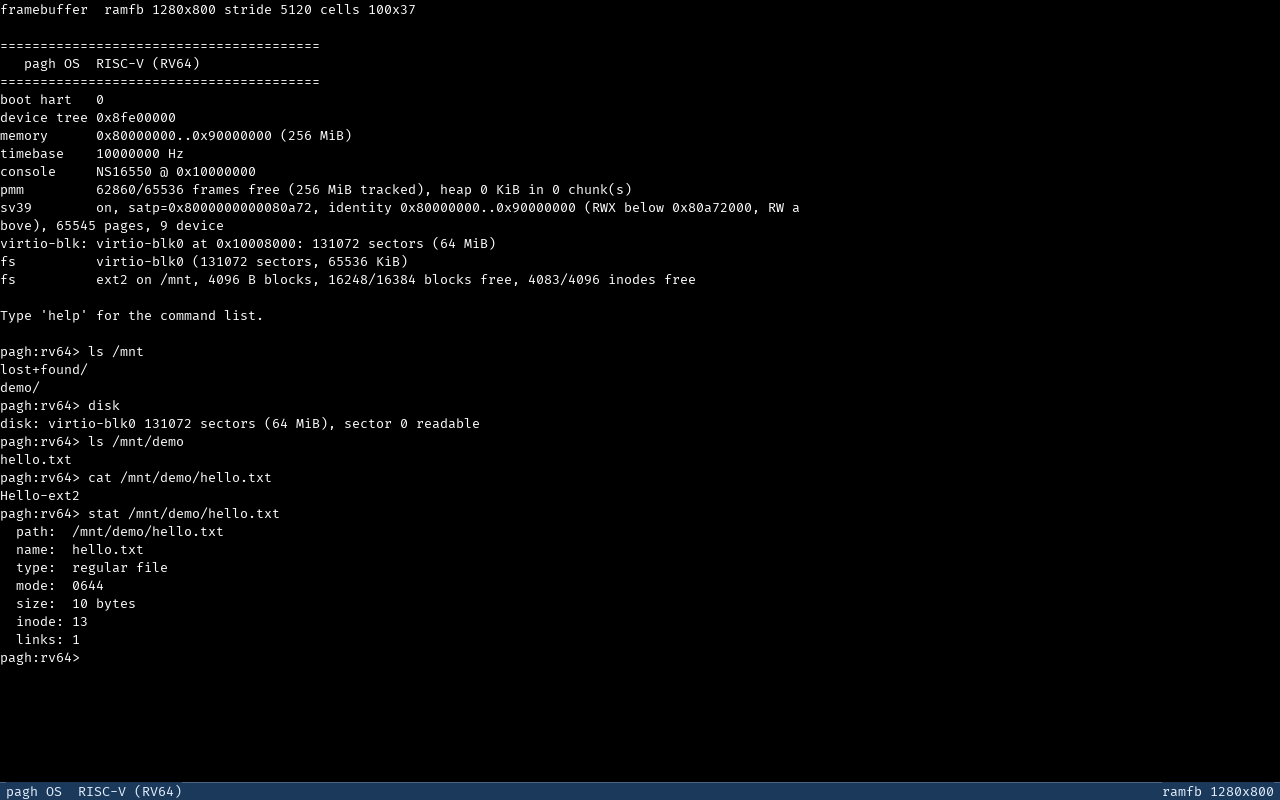
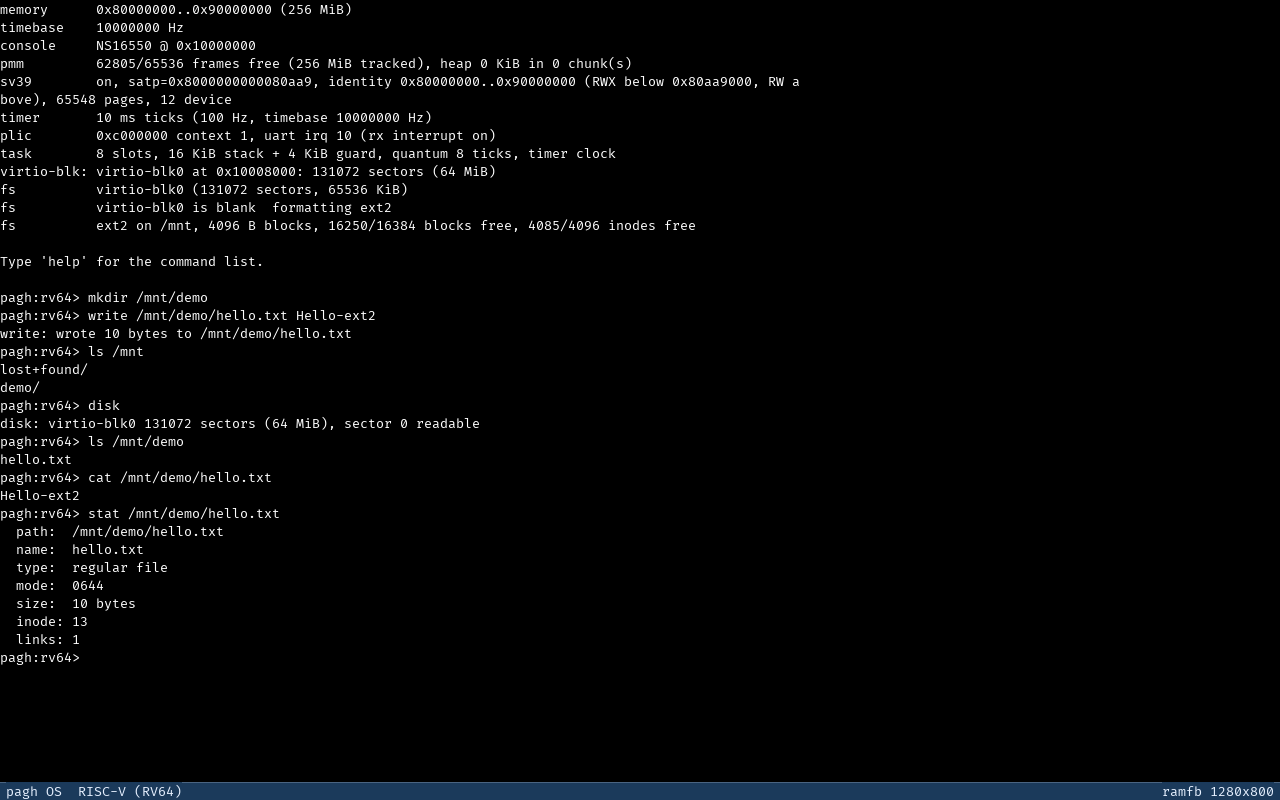
docs: screenshots for M3/M5/M6a and version 0.4.0
* New screendumps from the current build: the shell (`help`), the disk (`ls /mnt`,
  `disk`, `cat`, `stat` — now with the timer/PLIC/task boot lines), and a new
  `docs/tasks.png` showing `spawn 3` + `tasks` + `yield 48`: the scheduler table
  with per-thread switches/work counters and the timer clock attached. The README
  screenshot section and `docs/screenshot.md` describe how each was produced.
* `virtio_mmio::probe` checks the device id before the transport version. An empty
  QEMU transport reports version 1, so the driver used to print eight "legacy
  transport" warnings on every diskless boot — noise that hid the one warning that
  matters (a disk attached without `-global virtio-mmio.force-legacy=false`). Empty
  slots now take the silent `Empty` path; a present legacy device still names itself.
* Version `0.3.0` -> `0.4.0` in `Cargo.toml` **and** `Cargo.lock`: this release
  covers timer/PLIC/interrupt-driven console (M3), the virtio-mmio disk with ext2 +
  VFS (M5) and kernel threads with timer preemption (M6a). `0.3.0` was written in
  `Cargo.toml` but never tagged; `0.4.0` is the tag that matches its manifest, and
  the AGENTS versioning note records the gap.

Changed region(s): [[0.0, 0.0, 0.625, 0.4375]]

diff --git a/src/drivers/virtio_mmio.rs b/src/drivers/virtio_mmio.rs
@@ -672,16 +672,16 @@ impl VirtioBlk {
 /// Probe one transport window.
 ///
 /// The checks are in the order the protocol makes meaningful: identify the
-/// transport (magic), the version (modern only), the device (a block device),
-/// then its features, then its queue. Every rejection names itself, because the
-/// caller's job is to put it on the serial line.
+/// transport (magic), the device (a block device — an *empty* slot has id 0 and
+/// is the normal state of the seven transports QEMU declares but does not use),
+/// the version (modern only), then features, then the queue. Empty-before-version
+/// matters for the log: QEMU's legacy transports report version 1 even with no
+/// device plugged in, and eight "legacy transport" warnings for eight empty
+/// slots on every boot is noise that hides a real one (a disk attached without
+/// `-global virtio-mmio.force-legacy=false`).
 fn probe(base: usize) -> Result<VirtioBlk, Error> {
     if read32(base, MAGIC_VALUE) != MAGIC {
         return Err(Error::NotVirtioMmio);
-    }
-    let version = read32(base, VERSION);
-    if version != VERSION_MODERN {
-        return Err(Error::Legacy(version));
     }
     let device_id = read32(base, DEVICE_ID);
     if device_id == 0 {
@@ -689,6 +689,10 @@ fn probe(base: usize) -> Result<VirtioBlk, Error> {
     }
     if device_id != DEVICE_ID_BLOCK {
         return Err(Error::NotBlock(device_id));
+    }
+    let version = read32(base, VERSION);
+    if version != VERSION_MODERN {
+        return Err(Error::Legacy(version));
     }
 
     // Reset, then the initialization sequence of §3.1: ACKNOWLEDGE, DRIVER,

diff --git a/README.md b/README.md
@@ -54,6 +54,13 @@ ext2 смонтирован в `/mnt`; `ls`/`cat`/`stat` работают, `disk
 
 ![ext2 на virtio-диске: ls, cat, stat](docs/fs.png)
 
+Планировщик M6a: `spawn 3` завёл три потока, `tasks` показывает снимок таблицы
+(id, имя, состояние, переключения, счётчик работы, стек), `yield 48` прогнал тики
+и переключения; `idle` держит hart в `wfi`, счётчики демо-потоков растут и без
+единого `yield`, потому что тик таймера вытесняет их из trap-контекста.
+
+![Потоки ядра: spawn, tasks, yield](docs/tasks.png)
+
 Это не макет и не рендер на хосте: кадр нарисован самим ядром в теневом буфере и
 отдан устройству `ramfb`, а снят из работающего QEMU через `screendump`. Команда
 воспроизведения — та же, что проверяет пиксели:

diff --git a/docs/screenshot.md b/docs/screenshot.md
@@ -90,7 +90,9 @@ python3 tools/run.py --keys "clear\n" --shot /tmp/riscv-clear.png \
 
 ## Что смотреть глазами
 
-* `docs/shell.png` — снимок для README (снимается тем же `run.py`, см. выше);
+* `docs/shell.png` — консоль с `help` (снимается тем же `run.py`, см. выше);
+* `docs/fs.png` — `DISK`-образ: `ls /mnt`, `disk`, `cat`, `stat`;
+* `docs/tasks.png` — `spawn 3`, `tasks`, `yield 48`: таблица потоков и счётчики;
 * статус-бар внизу: слева `pagh OS  RISC-V (RV64)`, справа `ramfb 1280x800`;
 * текст занимает 100×37 клеток, ниже — чёрная полоса, затем бар (раскладка
   x86-версии, см. `src/drivers/README.md`);

diff --git a/AGENTS.md b/AGENTS.md
@@ -275,7 +275,7 @@ seconds. Verify locally with `cargo build --locked` after any version change.
 - **Tags** — tag the release commit with the bare version string (`0.3.0`) and push
   it. Tags must never run ahead of `Cargo.toml`. Note: `0.2.0` was tagged on a commit
   whose manifest still said `0.1.0` (the drift this rule exists to prevent); it is
-  left as history, and `0.3.0` is the first tag that matches its manifest.
+  left as history, and `0.4.0` is the first tag that matches its manifest (M3/M5/M6a landed after `0.3.0` was written but before it was tagged).
 
 ## Known gaps (documented, not hidden)
 
